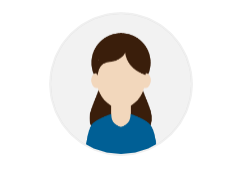
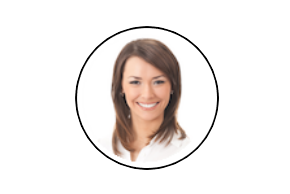
Image changes

diff --git a/winui/AvatarView/getting-started.md b/winui/AvatarView/getting-started.md
@@ -34,7 +34,11 @@ This section explains the steps required to add the WinUI AvatarView control and
     mc:Ignorable="d"
     Background="{ThemeResource ApplicationPageBackgroundThemeBrush}">
     <Grid>
-      <syncfusion:SfAvatarView AvatarSize="ExtraLarge"/>
+      <syncfusion:SfAvatarView ContentType="CustomImage"
+                               AvatarSize="ExtraLarge"
+                               ImageSource="ellanaa.png"
+                               BorderBrush="Black">
+      </syncfusion:SfAvatarView>
     </Grid>
 </Page>
 
@@ -43,7 +47,10 @@ This section explains the steps required to add the WinUI AvatarView control and
 
 // Creating an instance of the AvatarView control.
 SfAvatarView avatarView = new SfAvatarView();
+avatarView.ContentType = AvatarContentType.CustomImage;
 avatarView.AvatarSize = AvatarSize.ExtraLarge;
+avatarView.ImageSource = new BitmapImage(new Uri("ms-appx:///ellanaa.png"));
+avatarView.BorderBrush = new SolidColorBrush(Colors.Black);
 
 //Setting page content.
 page.Content = avatarView;
